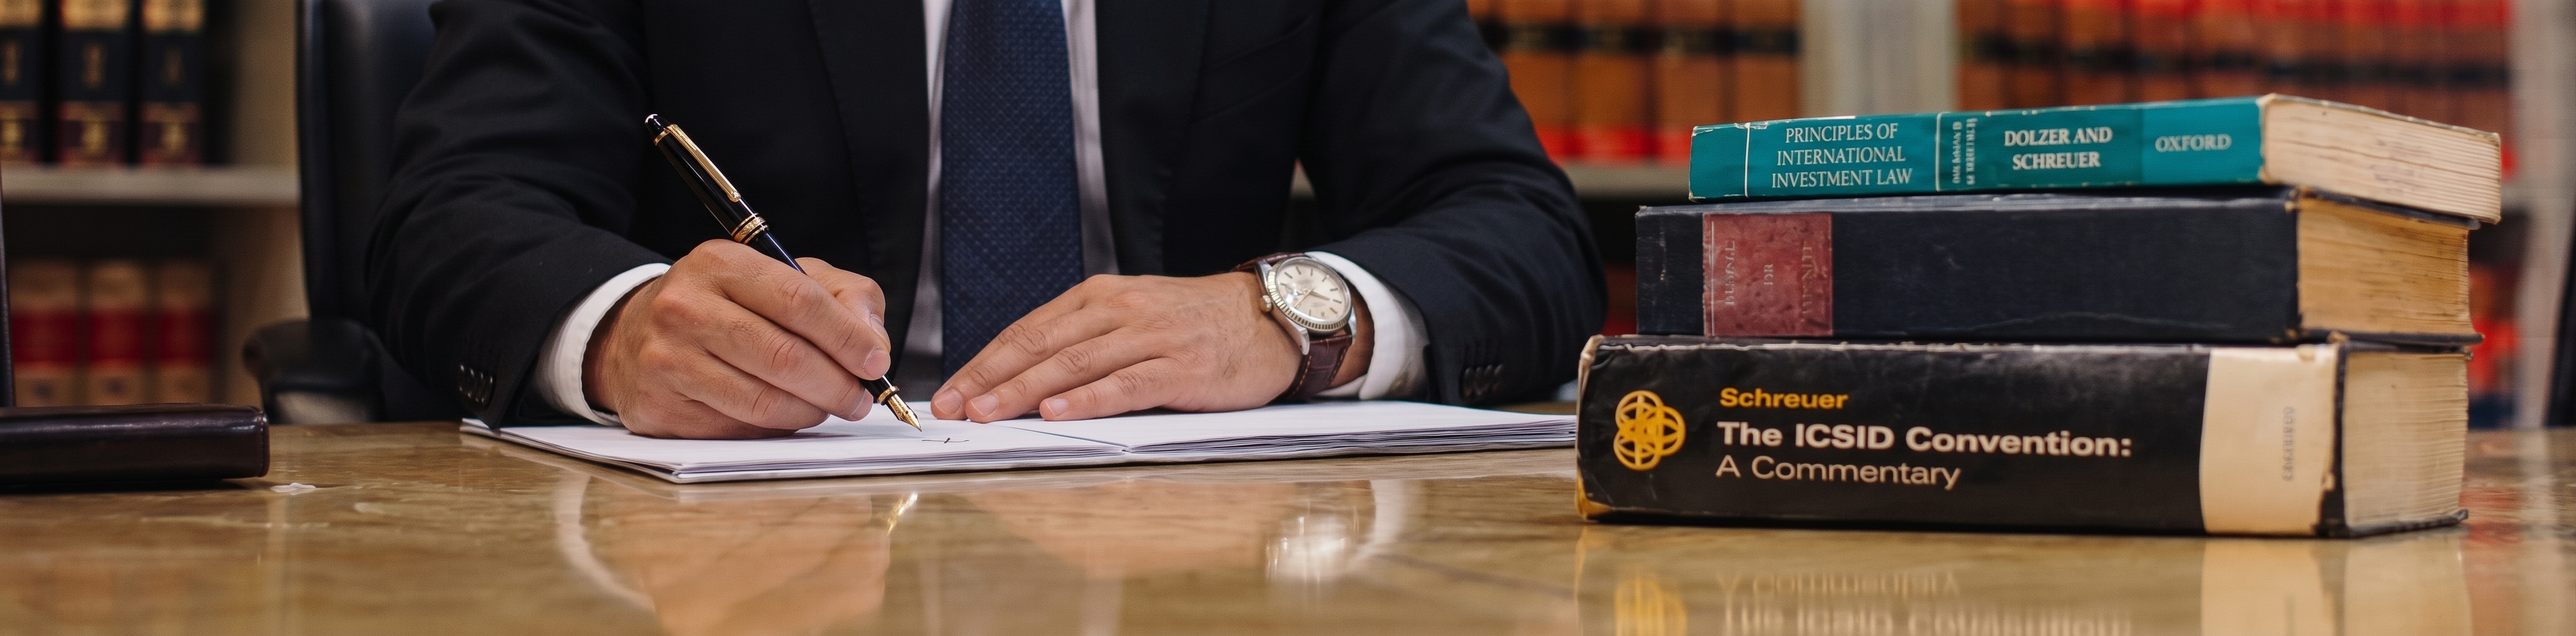
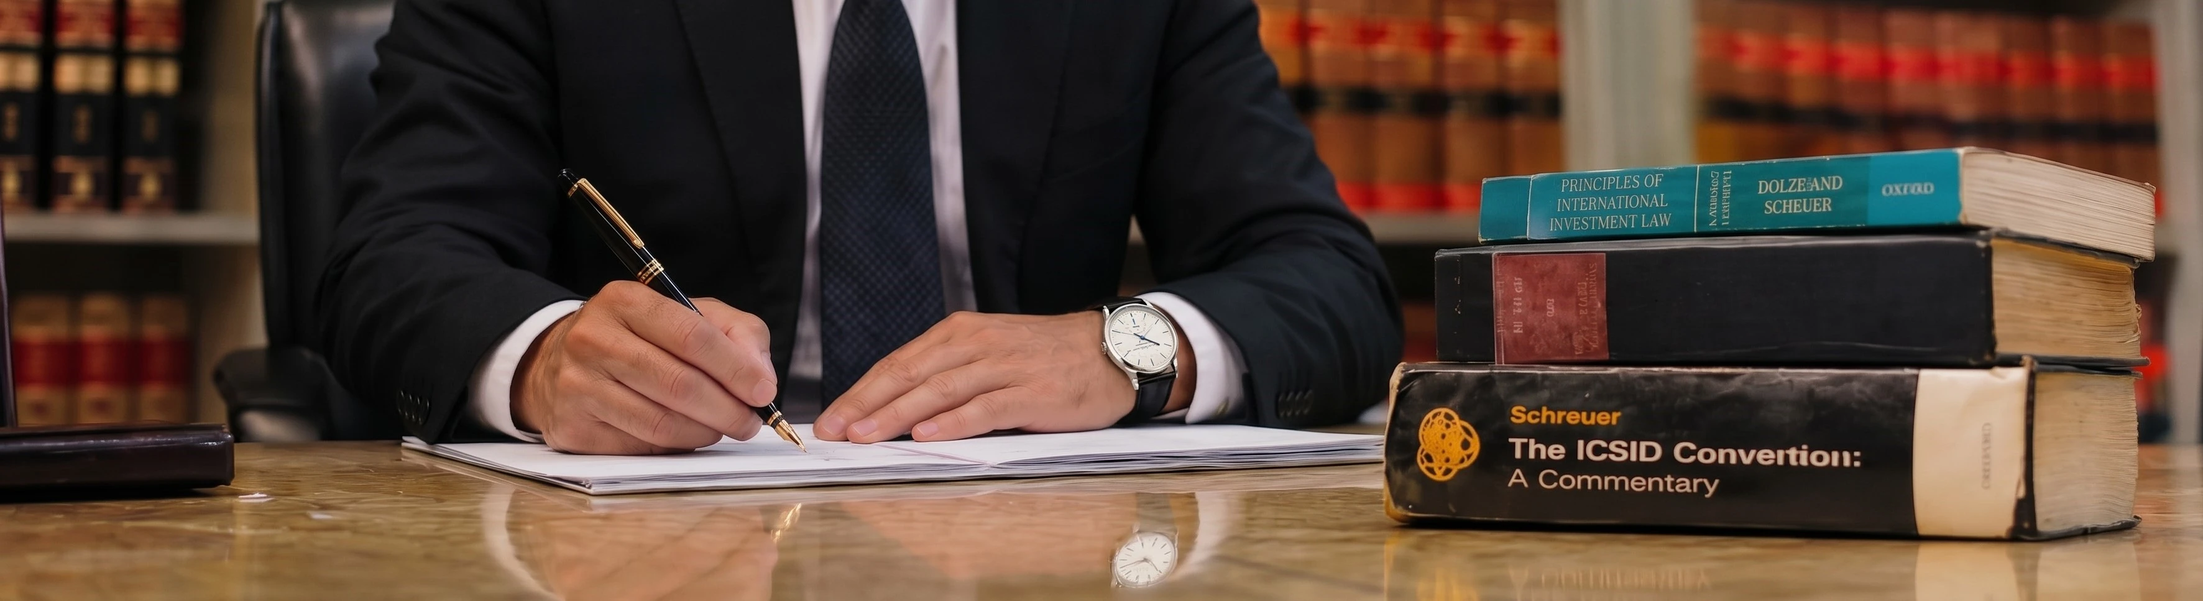
added

diff --git a/client/app/disclaimer/page.tsx b/client/app/disclaimer/page.tsx
@@ -9,7 +9,7 @@ export const metadata: Metadata = {
 
 export default function DisclaimerPage() {
   return (
-    <section className="bg-white pt-40 pb-24 md:pt-526">
+    <section className="bg-white pt-40 pb-[90px] md:pt-[200PX]">
       <div className=" mx-auto px-6 md:px-10">
         <SectionLabel label="Legal Disclaimer & Privacy" className="mb-8" />
         {/* <RevealText as="h1" immediate className="font-display py-6 text-display-md text-charcoal max-w-2xl mb-10">

diff --git a/client/app/publications/page.tsx b/client/app/publications/page.tsx
@@ -6,7 +6,7 @@ import { ArrowUpRight } from "lucide-react";
 import SectionLabel from "@/components/ui/SectionLabel";
 import RevealText from "@/components/ui/RevealText";
 import publications from "@/data/publications.json";
-import img1 from "../../public/images/IMG_3063.JPG.jpeg";
+import img1 from "../../public/images/banner-newsletter.jpg";
 import Image from "next/image";
 
 // Fixed order rather than deriving from the data, so the tab order never

diff --git a/client/components/sections/ContactForm.tsx b/client/components/sections/ContactForm.tsx
@@ -75,7 +75,7 @@ export default function ContactForm() {
           name="message"
           placeholder="your message"
           required
-          rows={5}
+          rows={3}
           className="bg-transparent border-b border-zinc-900/25 focus:border-red-600 outline-none py-2 text-zinc-950 placeholder:text-zinc-950/30 resize-none transition-colors duration-300"
         />
       </div>

diff --git a/client/app/contact/page.tsx b/client/app/contact/page.tsx
@@ -47,7 +47,7 @@ export default function ContactPage() {
             </div>
           </div>
 
-          <div className="lg:col-span-7 mt-1 lg:col-start-6">
+          <div className="lg:col-span-7 mt-2 lg:col-start-6">
             <ContactForm />
           </div>
         </div>
